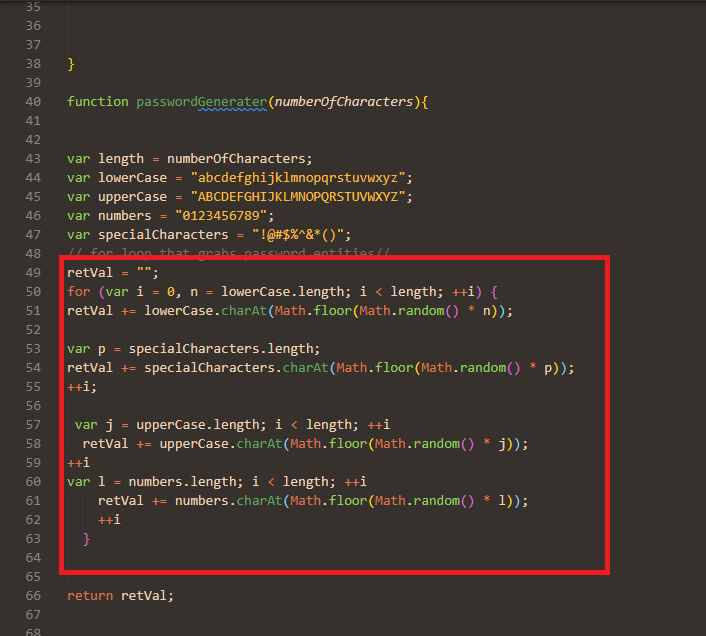
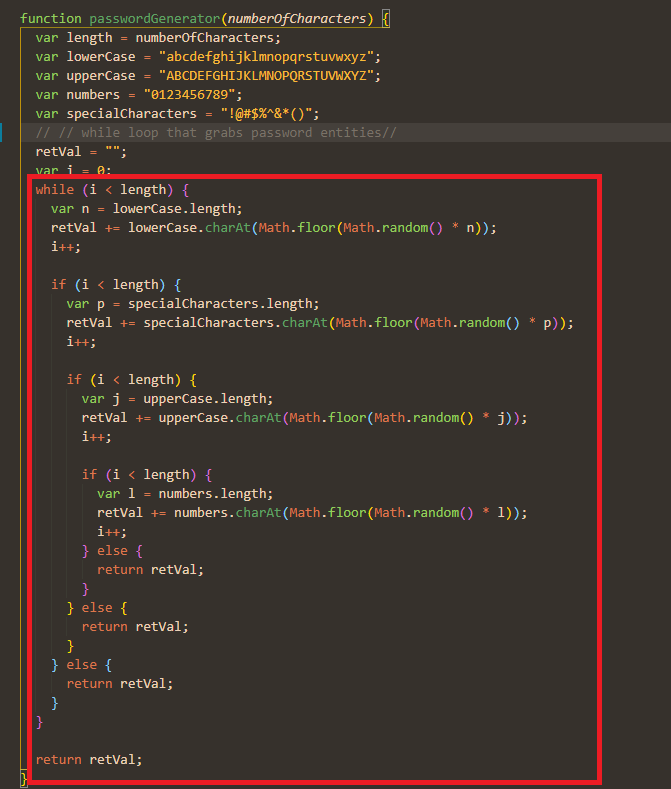
updated readMe and finalized my project

diff --git a/Assets/Javascript/script.js b/Assets/Javascript/script.js
@@ -37,7 +37,7 @@ function passwordGenerator(numberOfCharacters) {
   var upperCase = "ABCDEFGHIJKLMNOPQRSTUVWXYZ";
   var numbers = "0123456789";
   var specialCharacters = "!@#$%^&*()";
-  // // for loop that grabs password entities//
+  // // while loop that grabs password entities//
   retVal = "";
   var i = 0;
   while (i < length) {

diff --git a/README.md b/README.md
@@ -2,8 +2,7 @@
 
 ## Description
 
-Provide a short description explaining the what, why, and how of your project. Use the following questions as a guide:
-For this project I had to create a password generator. My motivation for the project was to provide a solution to create a strong password for users. Through out creating this generator I sharped my javascript skills regarding loops and if statements.
+For this project I had to create a password generator. My motivation for the project was to provide a solution to create a strong password for users. Throughout the creation of this generator I sharped my javascript skills regarding loops and if statements. I also honed in my trouble shooting skills.
 
 ## Table of Contents (Optional)
 
